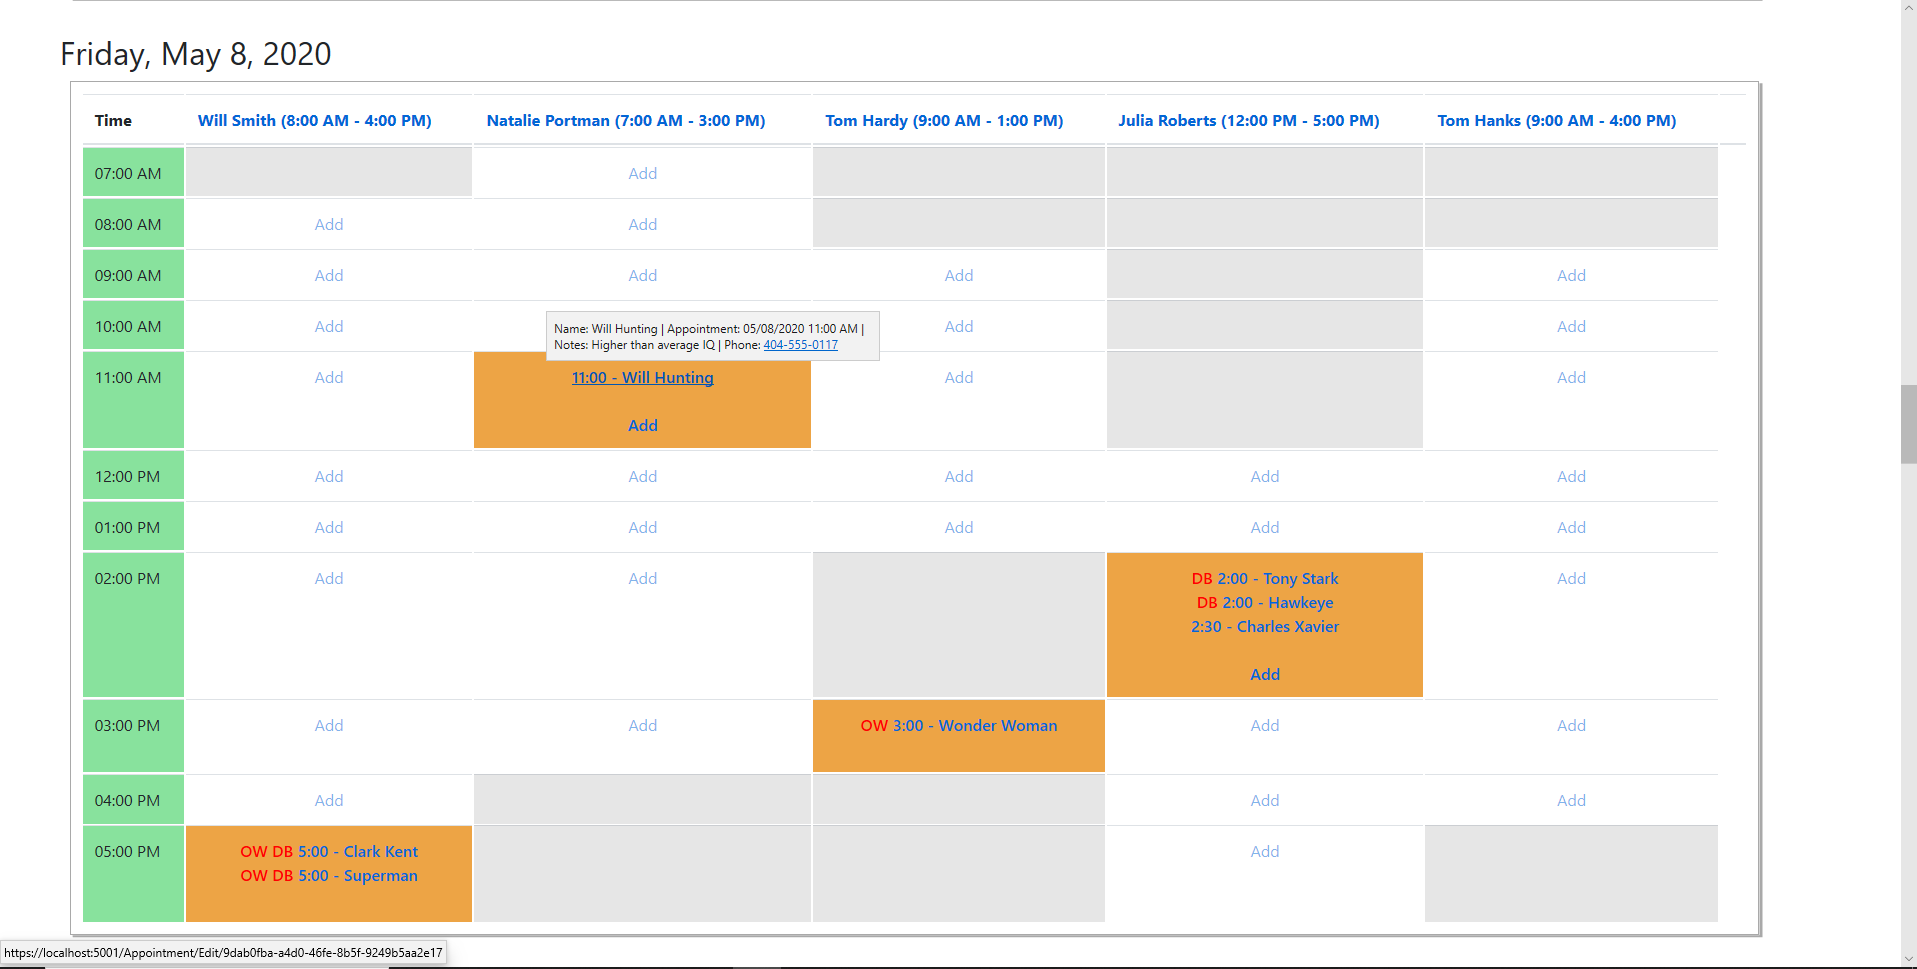
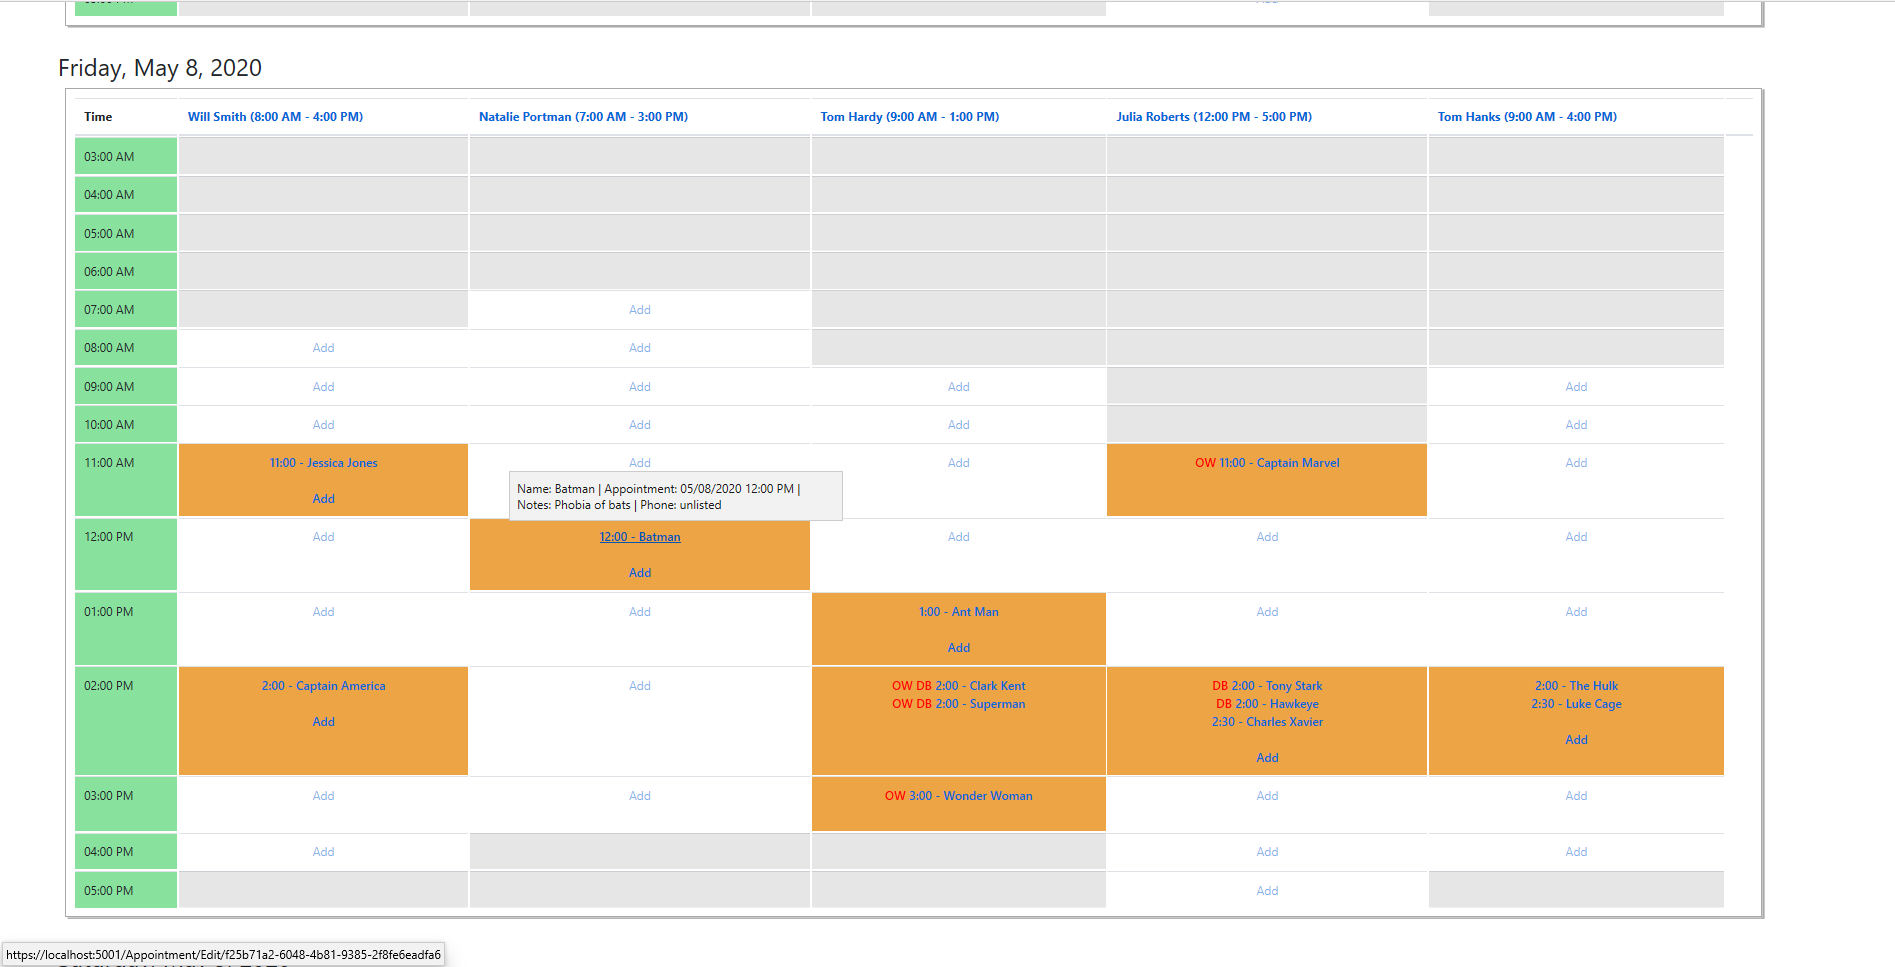
new pictures, edited readme

diff --git a/Readme.md b/Readme.md
@@ -29,15 +29,14 @@ This is an event scheduler. A suggested use would be at a conference that lasted
     * For each hour, appointments will be listed for each employee. Hovering over the appointment link shows name, phone number, appointment notes, and appointment date/time. Clicking an appointment link routes the user to the appointment edit function. 
     * **D**ouble **B**ooked apointments and appointments **O**utside the **W**indow for work will be coded with **DB** and **OW** respectively indicating that status.
     * Clicking on an employee link allows for editing of the information for that employee. Changes in the employee's work window will change the visual view of the schedule for that day as well any **OW** coding.
+   
+
 ***
---> Home Index, At a glance view showing hover information for an established appointment
-![Home At-a-glance view](images/Home_View_Hover.png)    
+-->Home Index, at a glance view showing double booked coding, multiple appointments in hour span, appointments outside of work window, message over established appointment with mouse hover
+![Home At-a-glance view](images/DB_OW_Multiple.png) 
 ***
 --> Home Index, At a glance view showing hover for adding an appointment
 ![Home At-a-glance view](images/Home_View_Hover_Add.png)  
-***
--->Home Index, at a glance view showing double booked coding, multiple appointments in hour span, appointments outside of work window
-![Home At-a-glance view](images/DB_OW_Multiple.png) 
 ***
 
 * Employee/Index Page
@@ -49,17 +48,17 @@ This is an event scheduler. A suggested use would be at a conference that lasted
 * Apointments/Index Page
     * Allows appointments to be created, read, updated, and deleted.
     * Search/filter function is available for Name, Phone Number, and Appointment Notes.
-    * Appointments are sorted by chronological order by default but other fields can be sorted with and without filter present.
-    * A message under the search box will indicate 1.) the number of entries displayed, 2.) whether the filter/search function is being used, 3.) the search filter,.
+    * Appointments are sorted by chronological order by default. Fields can be sorted with and without filter present.
+    * A message under the search box will indicate 1.) the number of entries displayed, 2.) whether the filter/search function is being used, 3.) the search filter.
     * If no records are found with a search, a message will also display in the table.
     * Upon attempted creation of an appointment that overlaps with another appointment on that same employee -- an error message will display and indicate which employees have an opening at that time. 
     * Upon attempted creation of an appointment that is scheduled outside of employee's work window -- an error message will display showing the work window of that employee. 
     * After 'valid' appointment creation, the user can purposely doublebook an appointment or set an appointment outside of the employee's work window by editing the appointment. Coding will appear on the appointments index page (ex: DB, OW) where applicable.
 ***
---> View of the appointments Page
+--> View of the appointments Page - appointments sorted by chronological order by default, OW and DB coding present
 ![Appointments Page](images/Appointments_Page.png)
 ***
---> Appointment Search Function
+--> Appointment Search Function with sort by name applied within search filter
 ![Appointment Search Function](images/Appointment_Search.png)
 ***
 --> Outside work window error/validation
